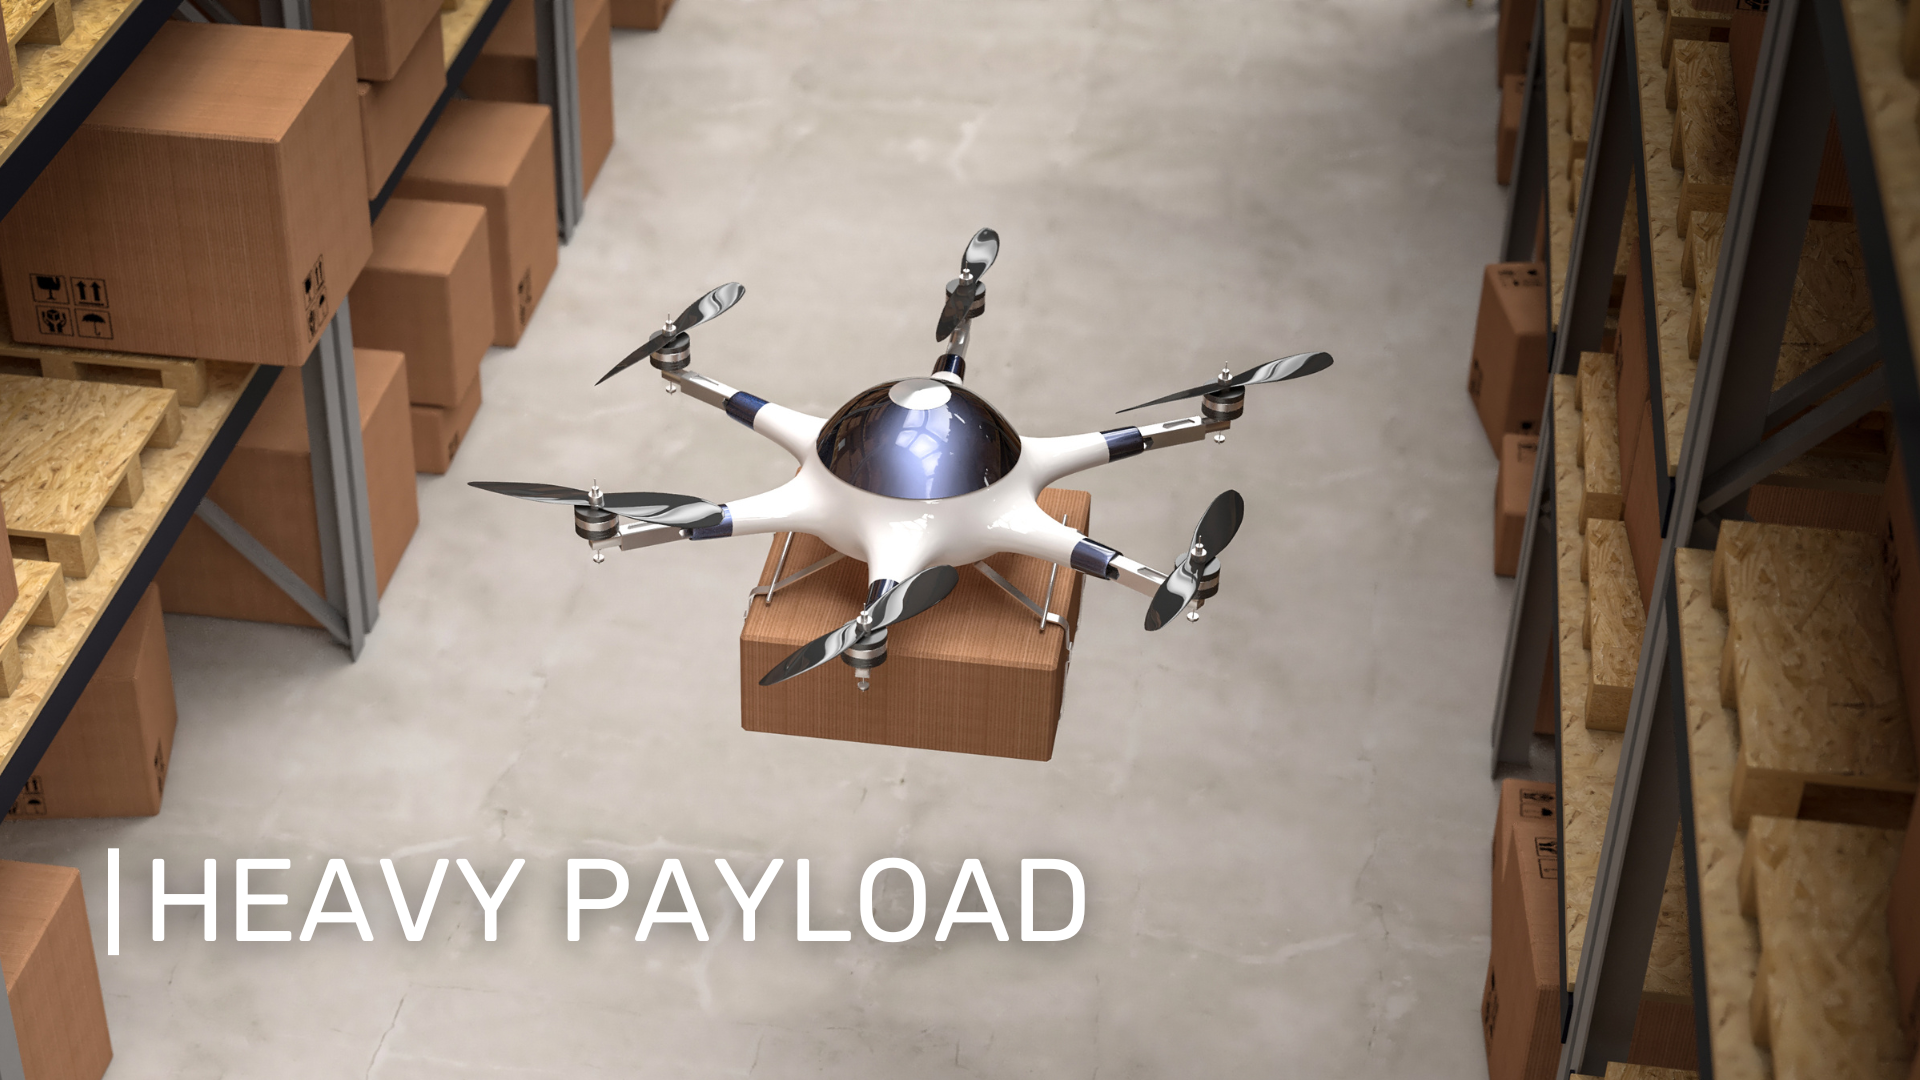
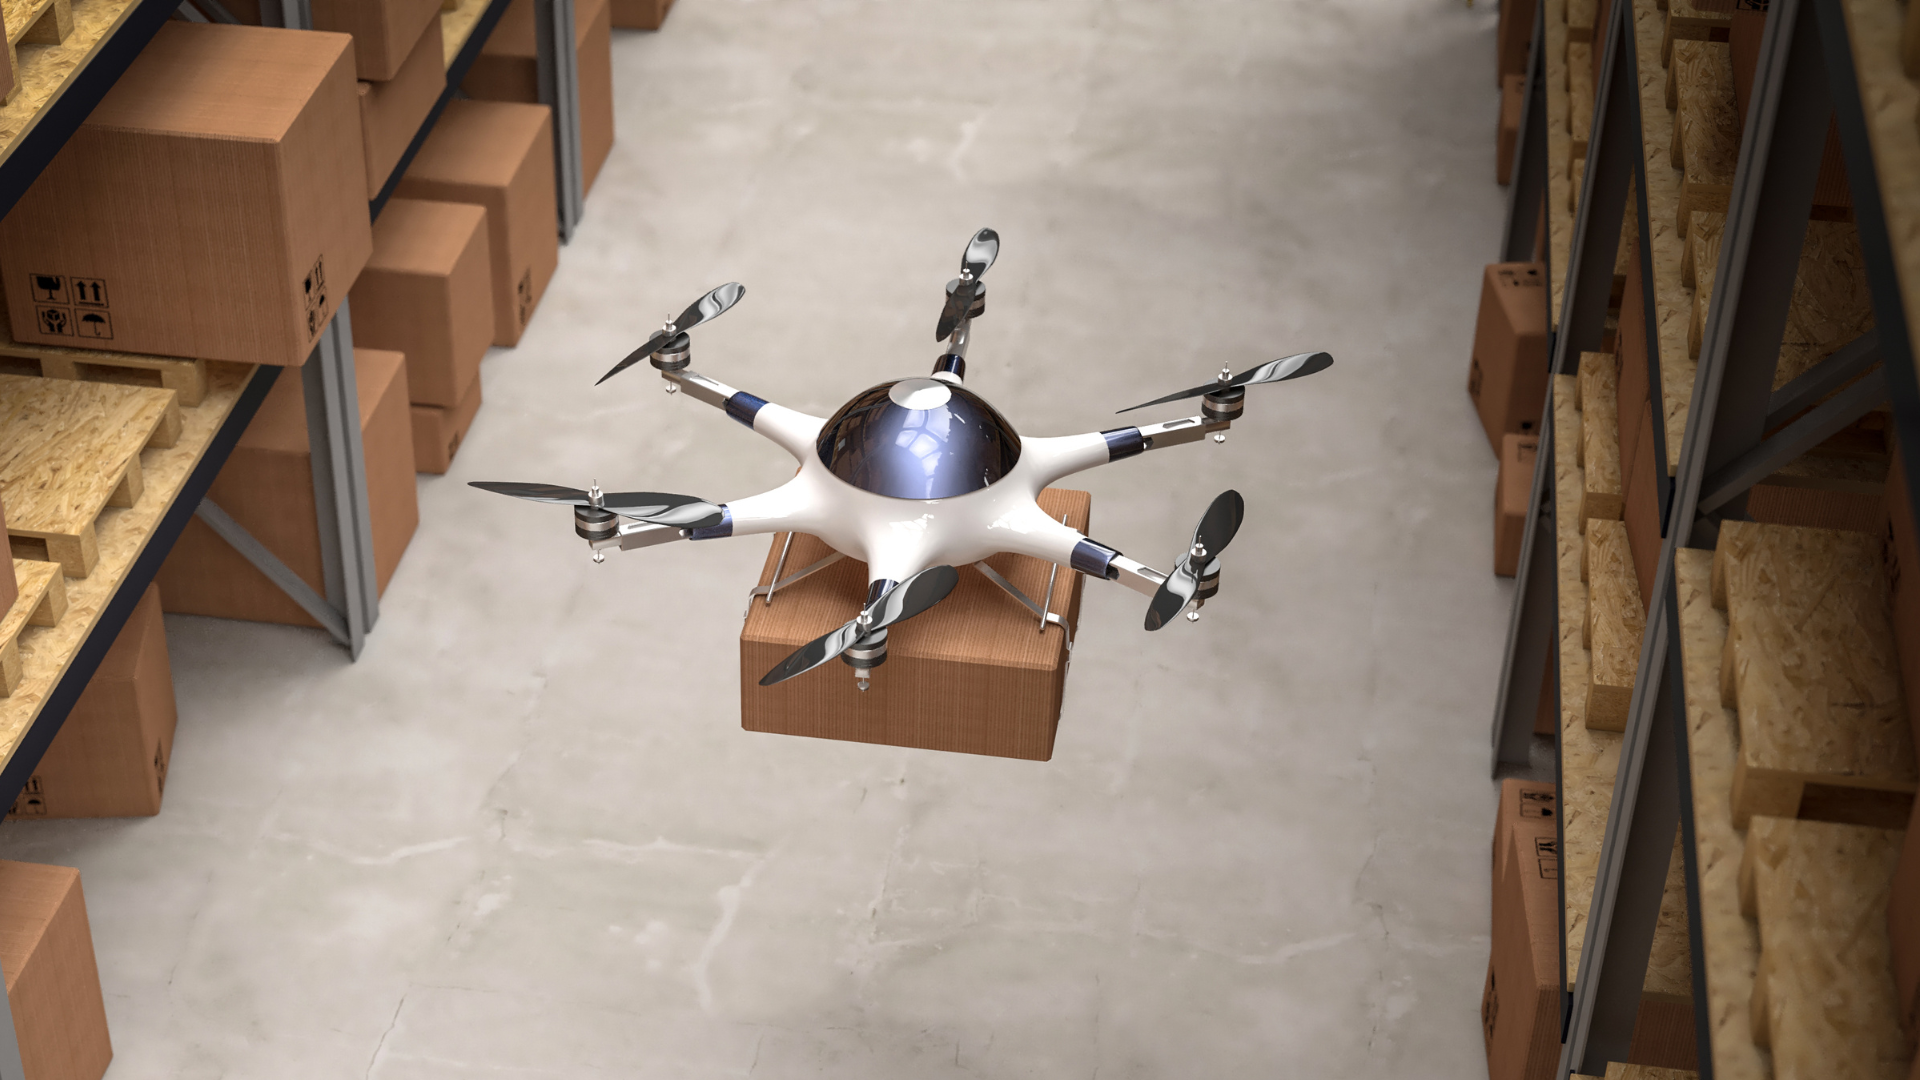
responsive

Changed region(s): [[0.0312, 0.7944, 0.5938, 0.8861]]

diff --git a/src/components/Navbar.jsx b/src/components/Navbar.jsx
@@ -1,31 +1,101 @@
-import React from 'react'
-import logoblack from '../assets/logoblack.png'
+import React, { useState } from 'react';
+import logoblack from '../assets/logoblack.png';
+import { FaAlignJustify } from "react-icons/fa";
 
 const Navbar = () => {
+  const [activeTab, setActiveTab] = useState('home');
+  const [menu, setMenu] = useState(false);
+
+  const handleActive = (id) => {
+    setActiveTab(id);
+  };
+
   return (
-    <div>
+    <div className='w-full bg-white z-10'>
       {/* Flex container with Logo, three links and sign up button rubik font*/}
       <nav className="flex justify-between items-center px-4">
         <div className="Dronelogo">
-        <img
-          className="w-20"
-          src={logoblack}
-          alt="Logo"
-        />
+          <img className="w-20" src={logoblack} alt="Logo" />
         </div>
 
-        <div className="flex text-md space-x-6 items-center font-rubik">
-            <a className='hover:cursor-pointer hover:text-gray-600'>Home</a>
-            <a className='hover:cursor-pointer hover:text-gray-600'>Products</a>
-            <a className='hover:cursor-pointer hover:text-gray-600'>Contact</a>
+        <div className="hidden lg:flex text-md space-x-6 items-center font-rubik">
+          <button
+            id="home"
+            onClick={() => handleActive('home')}
+            className={`hover:cursor-pointer hover:bg-teal-200 px-2 py-1 rounded-md ${
+              activeTab === 'home' ? 'bg-teal-500 px-2 py-1 rounded-md text-white' : ''
+            }`}
+          >
+            Home
+          </button>
+          <button
+            onClick={() => handleActive('products')}
+            className={`hover:cursor-pointer hover:bg-teal-200 px-2 py-1 rounded-md ${
+              activeTab === 'products' ? 'bg-teal-500 px-2 py-1 rounded-md text-white' : ''
+            }`}
+          >
+            Products
+          </button>
+          <button
+            onClick={() => handleActive('contact')}
+            className={`hover:cursor-pointer hover:bg-teal-200 px-2 py-1 rounded-md ${
+              activeTab === 'contact' ? 'bg-teal-500 px-2 py-1 rounded-md text-white' : ''
+            }`}
+          >
+            Contact
+          </button>
         </div>
 
-        <div className="signup">
-                <button className="font-rubik border-black border-2 rounded-md px-2 py-1 hover:bg-black hover:text-white">Sign Up</button>
+        <div className="hidden lg:block signup">
+          <button className="font-rubik border-black border-2 rounded-md px-2 py-1 hover:bg-black hover:text-white">
+            Sign Up
+          </button>
+        </div>
+
+        <div className="lg:hidden menu-icon text-lg hover:cursor-pointer ">
+          <button onClick={() => setMenu(!menu)}><FaAlignJustify /></button>
         </div>
       </nav>
+      {/* menu transition */}
+      <div className={`lg:hidden absolute z-10 bg-white w-full transition-height ease-in-out duration-500 ${menu ? "opacity-100" : "opacity-0"}`}>
+        <div className="flex flex-col text-md items-center font-rubik">
+          <button
+            id="home"
+            onClick={() => handleActive('home')}
+            className={`hover:cursor-pointer hover:text-teal-500 ${
+              activeTab === 'home' ? 'text-teal-500' : ''
+            }`}
+          >
+            Home
+          </button>
+          <button
+            onClick={() => handleActive('products')}
+            className={`hover:cursor-pointer hover:text-teal-500 ${
+              activeTab === 'products' ? 'text-teal-500' : ''
+            }`}
+          >
+            Products
+          </button>
+          <button
+            onClick={() => handleActive('contact')}
+            className={`hover:cursor-pointer hover:text-teal-500 ${
+              activeTab === 'contact' ? 'text-teal-500' : ''
+            }`}
+          >
+            Contact
+          </button>
+          <button
+            onClick={() => handleActive('signup')}
+            className={`hover:cursor-pointer hover:text-teal-500 ${
+              activeTab === 'signup' ? 'text-teal-500' : ''
+            }`}
+          >
+            Sign Up
+          </button>
+        </div>
+      </div>
     </div>
-  )
-}
+  );
+};
 
-export default Navbar
+export default Navbar;

diff --git a/src/components/Whyus.jsx b/src/components/Whyus.jsx
@@ -2,26 +2,26 @@ import React from 'react'
 
 const Whyus = () => {
   return (
-    <div className='w-1/2 items-center m-auto mt-24'>
-      <h1 className='text-5xl text-center my-4 font-rubik'>Why Us?</h1>
-      <p className='font-rubik text-center text-2xl tracking-wide text-gray-600'>We provide a best self drone easy to use and operate. With auto pilot, the device will take a beautiful view for the best of flying operation.</p>
+    <div className='w-4/5 xl:w-1/2 items-center m-auto mt-24'>
+      <h1 className='text-4xl md:text-5xl text-center my-4 font-rubik'>Why Us?</h1>
+      <p className='font-rubik text-center text-xl md:text-2xl tracking-wide text-gray-600'>We provide a best self drone easy to use and operate. With auto pilot, the device will take a beautiful view for the best of flying operation.</p>
         
-        <div className='font-rubik grid grid-cols-4 my-4'>
+        <div className='font-rubik grid grid-cols-2 md:grid-cols-4 my-4'>
         <div className='text-center p-4 hover:scale-105'>
-            <h2 className='text-3xl font-extrabold text-gray-800 text-center my-4'>5K</h2>
-            <p className='text-center text-xl tracking-wide text-gray-600'>Camera Resolution</p>
+            <h2 className='text-2xl md:text-3xl font-extrabold text-gray-800 text-center my-4'>5K</h2>
+            <p className='text-center sm:text-xl tracking-wide text-gray-600'>Camera <br/>Resolution</p>
         </div>
         <div  className='text-center p-4 hover:scale-105'>
-            <h2 className='text-3xl font-extrabold text-gray-800 text-center my-4'>80 m/s</h2>
-            <p className='text-center text-xl tracking-wide text-gray-600'>High Speed</p>
+            <h2 className='text-2xl md:text-3xl font-extrabold text-gray-800 text-center my-4'>80 m/s</h2>
+            <p className='text-center sm:text-xl tracking-wide text-gray-600'>High <br/>Speed</p>
         </div>
         <div  className='text-center p-4 hover:scale-105'>
-            <h2 className='text-3xl font-extrabold text-gray-800 text-center my-4'>3 TB</h2>
-            <p className='text-center text-xl tracking-wide text-gray-600'>Storage Capacity</p>
+            <h2 className='text-2xl md:text-3xl font-extrabold text-gray-800 text-center my-4'>3 TB</h2>
+            <p className='text-center sm:text-xl tracking-wide text-gray-600'>Storage<br/> Capacity</p>
         </div>
         <div  className='text-center p-4 hover:scale-105'>
-            <h2 className='text-3xl font-extrabold text-gray-800 text-center my-4'>45 mins</h2>
-            <p className='text-center text-xl tracking-wide text-gray-600'>Flight Time</p>
+            <h2 className='text-2xl md:text-3xl font-extrabold text-gray-800 text-center my-4'>45 mins</h2>
+            <p className='text-center sm:text-xl tracking-wide text-gray-600'>Flight <br/>Time</p>
         </div>
         </div>
     </div>

diff --git a/src/components/Features.jsx b/src/components/Features.jsx
@@ -1,36 +1,26 @@
-import { Carousel } from "@material-tailwind/react";
-import one from '../assets/one.png';
-import two from '../assets/two.png';
-import three from '../assets/three.png';
-import four from '../assets/four.png';
+import carousel from "../carousel";
+import { useEffect, useState } from "react";
 
 const Features = () => {
-    return (
-        <div className="my-16">
-        <Carousel className="rounded-xl h-3/4 w-3/4 items-center m-auto my-5">
-        <img
-          src={one}
-          alt="image 1"
-          className="h-full w-full object-cover"
-          />
-        <img
-          src={two}
-          alt="image 2"
-          className="h-full w-full object-cover"
-          />
-        <img
-          src={three}
-          alt="image 3"
-          className="h-full w-full object-cover"
-          />
-        <img
-          src={four} 
-          alt="image 3"
-          className="h-full w-full object-cover"
-          />
-      </Carousel>
-          </div>
-    );
+  const [idx, setIdx] = useState(0);
+
+  const slider = (i) => {
+    setIdx((i + 1) % carousel.length);
+  };
+
+  useEffect(() => {
+    const intervalId = setInterval(() => {
+      slider(idx);
+    }, 2500);
+    return () => clearInterval(intervalId);
+  }, [idx]); // Trigger effect whenever idx changes
+
+  return (
+    <div className="my-16 mb-20 md:mb-60">
+      <img className="m-auto" src={carousel[idx].image} alt={carousel[idx].title} />
+      <p className={`-mt-14  mx-16 md:-mt-28 md:mx-24 lg:-mt-36 lg:mx-34 font-rubik md:text-2xl md:text-5xl lg:text-6xl drop-shadow-lg font-bold border-l-4 px-3 ${carousel[idx].title === 'HEAVY PAYLOAD' ? 'text-black border-black' : 'text-white'}`}>{carousel[idx].title}</p>
+    </div>
+  );
 };
 
 export default Features;

diff --git a/src/components/Home.jsx b/src/components/Home.jsx
@@ -5,18 +5,17 @@ const Home = () => {
   return (
     <>
      {/* Two sections with 60:40 ratio */}
-    <div className="grid grid-cols-2 my-4">
+    <div className="flex flex-col md:grid md:grid-cols-2 m-auto md:justify-between md:h-screen  w-full">
 
-     <section className="flex flex-col justify-center items-center">
+     <section className="flex flex-col justify-center items-center m-auto w-full md:mt-0 sm:mt-10 mt-10 mb-5">
        {/* Heading Get Your Dream Drones, subheading Discover Your Perfect Flight, font rubik text aling center button get started, flex column */}
-       <h1 className='font-rubik text-7xl py-3 px-10 text-center leading-tight tracking-wide'>Get Your Dream Drones</h1>
-       <p className='font-rubik text-2xl tracking-wide'>Discover Your Perfect Flight</p>
-       <button className='bg-teal-500 text-xl rounded-md px-10 py-2 tracking-wide text-white my-8 hover:bg-teal-200 hover:text-black'>Get Started</button>
+       <h1 className='font-rubik text-4xl md:text-5xl xl:text-6xl text-center leading-loose font-bold tracking-wider'>Get Your Dream <br/> Drones</h1>
+       <p className='font-rubik text-xl md:text-2xl mt-3 tracking-wide'>Discover Your Perfect Flight</p>
+       <button className='bg-teal-500 md:text-xl rounded-md px-10 py-2 tracking-wide text-white m-8 hover:bg-teal-200 hover:text-black'>Get Started</button>
      </section>
-
-     <section>
-        {/* Image in the center */}
-        <img className='h-full' src={dronemain} alt="Drones"/>
+{/* Make the image section responsive*/}
+     <section className='flex'>
+        <img className='m-auto w-1/2 sm:self-start md:self-center md:w-3/4' src={dronemain} alt="Drones"/>
      </section>
    </div>
     </>

diff --git a/src/components/Services.jsx b/src/components/Services.jsx
@@ -4,14 +4,13 @@ import pilot from '../assets/pilot.png'
 const Services = () => {
   return (
     <div className='mt-24'>
-     <h1 className='text-5xl text-center my-4 font-rubik'>Services</h1>
-    <div className='grid grid-cols-2 my-10'>
-        {/* background image of first div is buy and second is pilot */}
-      <div className='h-screen flex items-start justify-around buy'>
-        <button className='text-center font-rubik text-5xl font-bold text-white tracking-wide mt-36'>OWN A DRONE</button>
+     <h1 className='text-4xl md:text-5xl text-center my-4 font-rubik'>Services</h1>
+    <div className='grid grid-cols-1 w-4/5 md:w-full md:grid-cols-2 my-10 m-auto'>
+      <div className='w-full flex items-start justify-around buy m-auto'>
+        <button className='text-center font-rubik text-2xl md:text-3xl m-auto lg:text-4xl font-bold text-white tracking-wide mt-14 md:mt-20 xl:mt-32'>OWN A DRONE</button>
       </div>
-      <div className='h-screen flex items-start justify-around pilot' >
-        <button className='text-center font-rubik text-5xl font-bold text-black tracking-wide mt-36'>BECOME A PILOT</button>
+      <div className='w-full flex items-start justify-around pilot m-auto' >
+        <button className='text-center font-rubik text-2xl md:text-3xl m-auto lg:text-4xl font-bold text-white tracking-wide mt-14 md:mt-20 xl:mt-32'>BECOME A PILOT</button>
       </div>
     </div>
     </div>

diff --git a/src/components/Footer.jsx b/src/components/Footer.jsx
@@ -5,11 +5,11 @@ import logoblack from '../assets/logoblack.png'
 const Footer = () => {
   return (
     <footer className="w-full bg-teal-100 p-8 text-teal-800">
-    <div className="flex flex-row flex-wrap items-center justify-center gap-y-6 gap-x-12 px-4 bg-white text-center md:justify-between">
+    <div className="flex bg-teal-100 flex-col md:flex-row items-center justify-center gap-y-6 gap-x-12 px-4 text-center md:justify-between">
       <img src={logoblack} alt="logo-ct" className="w-40" />
 
       <div className="flex flex-col justify-end">
-      <ul className="flex flex-wrap items-center gap-y-2 gap-x-8 mb-5 text-teal-800">
+      <ul className="flex flex-col sm:flex-row flex-wrap items-center gap-y-2 gap-x-8 mb-5 text-teal-800">
         <li>
           <Typography
             as="a"
@@ -51,7 +51,7 @@ const Footer = () => {
           </Typography>
         </li>
       </ul>
-      <div className="flex gap-4 sm:justify-center self-end text-teal-800">
+      <div className="flex gap-4 sm:justify-center self-center md:self-end text-teal-800">
             <Typography as="a" href="#" className="opacity-80 transition-opacity hover:opacity-100">
               <svg className="h-5 w-5" fill="currentColor" viewBox="0 0 24 24" aria-hidden="true">
                 <path

diff --git a/src/components/Products.jsx b/src/components/Products.jsx
@@ -7,15 +7,15 @@ const Products = () => {
 
   return (
     <div className='mt-24'>
-  <h1 className='text-5xl text-center my-4 font-rubik'>Products</h1>
-    <div className='grid grid-cols-3 w-4/5 m-auto'>
+  <h1 className='text-4xl md:text-5xl text-center my-4 font-rubik'>Products</h1>
+    <div className='grid md:grid-cols-1 w-3/4 lg:grid-cols-3 xl:w-4/5 m-auto'>
       {/* Card that has product image, name, price, and description */}
       {limitedProducts.map((product) => (
         <div key={product.id} className='my-5 mx-10 bg-white rounded-xl drop-shadow-2xl hover:scale-105 ' >
           <img src={product.image} alt={product.name} className='m-auto rounded-xl px-4' />
           <h2 className='text-center text-2xl my-1 font-rubik text-gray-800'>{product.name}</h2>
           <p className='text-center text-xl my-1 font-bold font-rubik text-teal-700'>Rs. {product.price}</p>
-          <p className='text-center font-rubik mb-2 text-gray-700 px-5'>{product.description}</p>
+          <p className='text-center font-rubik mb-2 text-gray-700 px-2 md:px-5'>{product.description}</p>
           <button className='w-full bg-teal-400 rounded-br-xl rounded-bl-xl py-2 text-white font-rubik text-xl'>Add to Cart</button>
         </div>
       ))}

diff --git a/src/index.css b/src/index.css
@@ -14,20 +14,18 @@
 }
 .buy{
   background-image: url('./assets/buy.png');
-  background-size: cover;
-  background-position: center;
-}
-.buy:hover{
-  /* image grow */
-  transform: scale(1.05);
-  cursor:pointer;
 }
 .pilot{
   background-image: url('./assets/pilot.png');
-  background-size: cover;
-  background-position: center;
 }
-.pilot:hover{
-  transform: scale(1.05);
-  cursor:pointer;
+.buy:hover, .pilot:hover {
+  transform: scale(0.99);
+  cursor: pointer;
+  transition: transform 0.3s ease; /* Add transition for smooth scaling */
+}
+.buy, .pilot {
+  background-repeat: no-repeat;
+  background-position: center;
+  background-size: cover;
+  aspect-ratio: 1/1; 
 }

diff --git a/src/carousel.js b/src/carousel.js
@@ -1,0 +1,30 @@
+import one from './assets/one.png';
+import two from './assets/two.png';
+import three from './assets/three.png';
+import four from './assets/four.png';
+
+const carousel = [
+    {
+        id: 1,
+        title: 'LIGHT WEIGHT',
+        image: one,
+    },
+    {
+        id: 2,
+        title: 'HIGH RESOLUTION',
+        image: two,
+    },
+    {
+        id: 3,
+        title: 'WIDE CAPTURE',
+        image: three,
+    },
+    {
+        id: 4,
+        title: 'HEAVY PAYLOAD',
+        image: four,
+    },
+
+]
+
+export default carousel;
